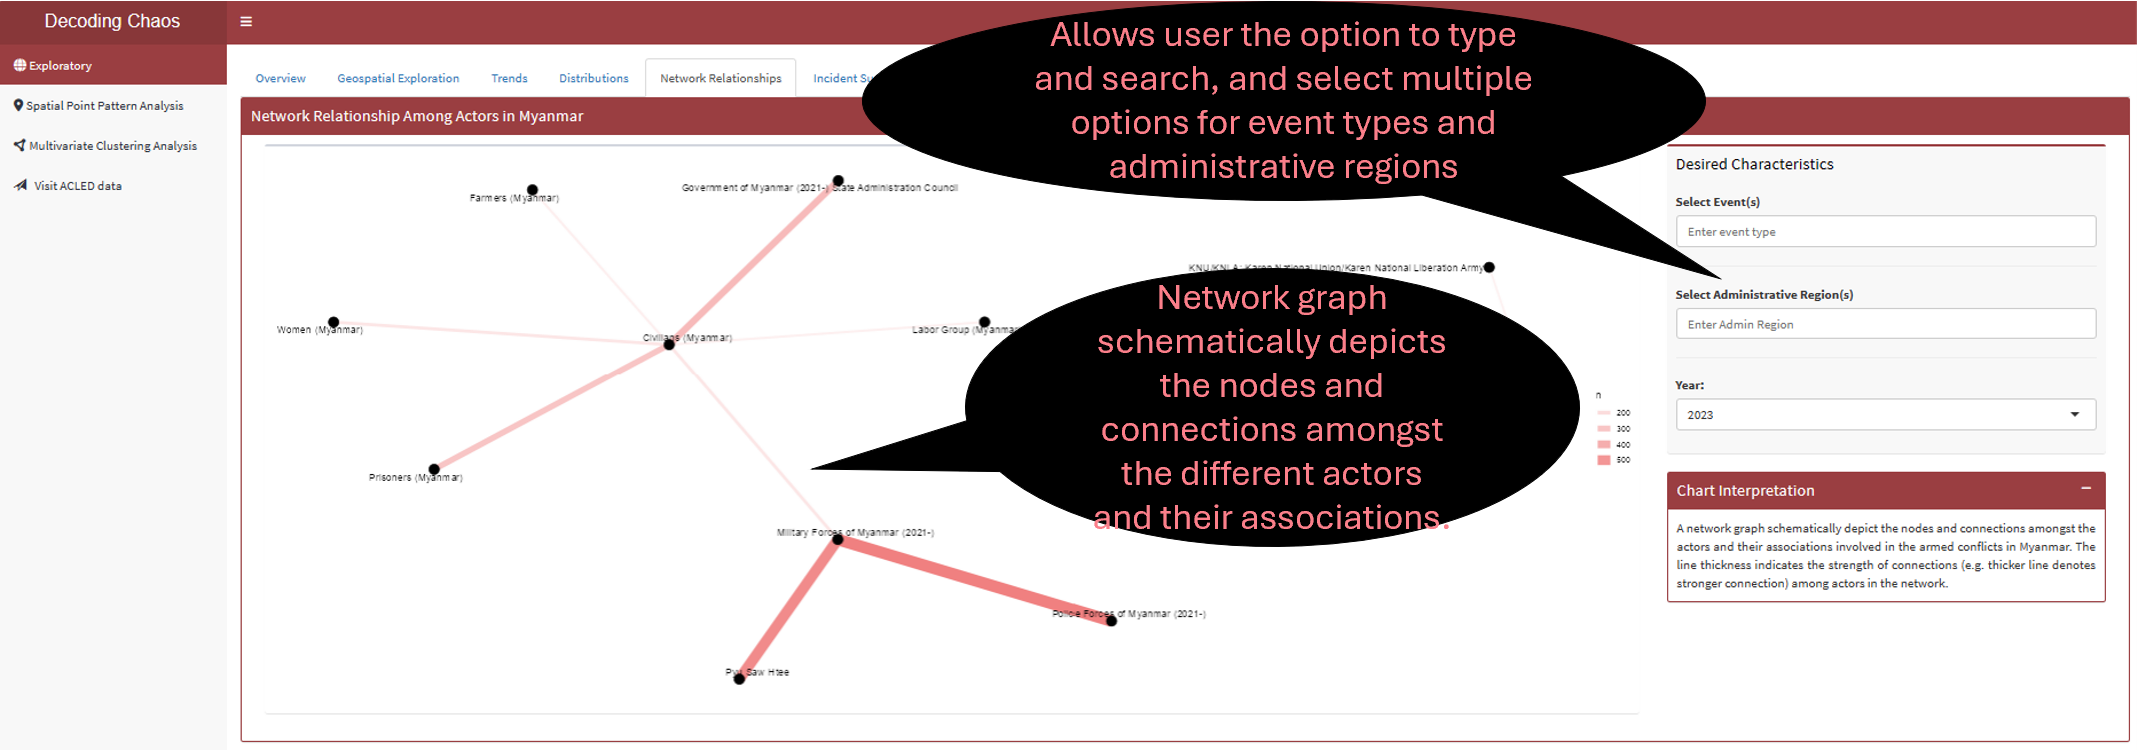
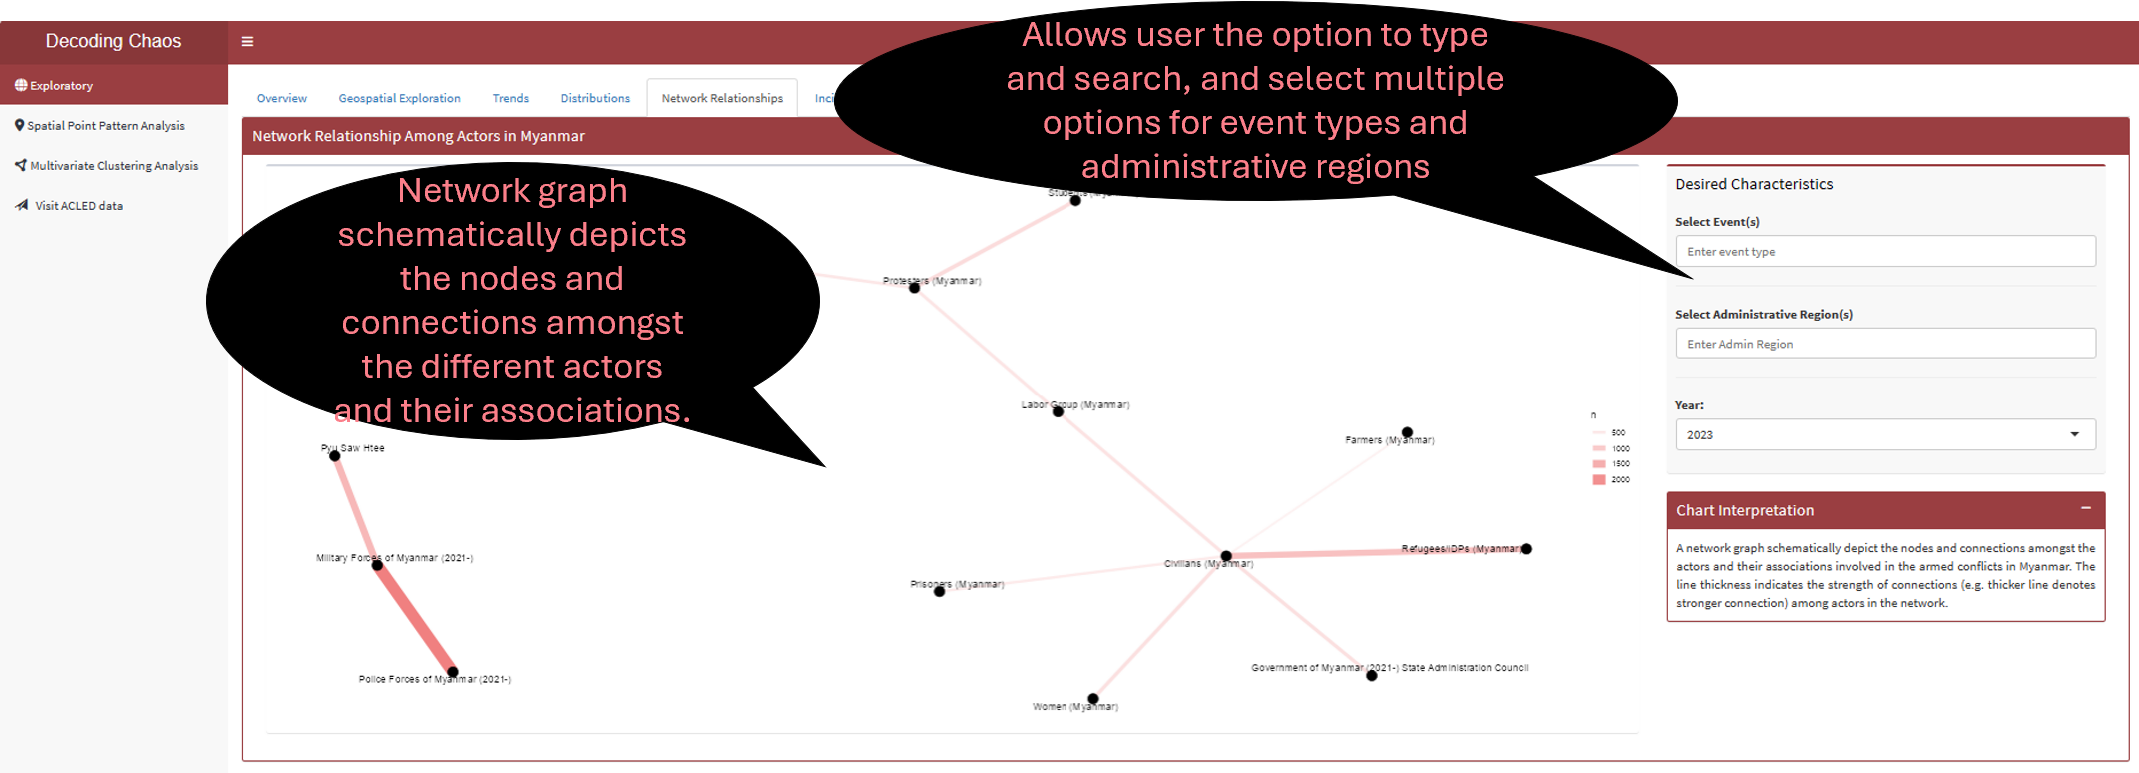
Commit changes to Take-home Ex 4 - Prototype

diff --git a/_site/Take-home_Ex/Take-home_Ex04/Take-home_Ex04-Prototype.html b/_site/Take-home_Ex/Take-home_Ex04/Take-home_Ex04-Prototype.html
@@ -322,7 +322,7 @@ pre > code.sourceCode > span > a:first-child::before { text-decoration: underlin
     <div>
     <div class="quarto-title-meta-heading">Modified</div>
     <div class="quarto-title-meta-contents">
-      <p class="date-modified">March 7, 2024</p>
+      <p class="date-modified">March 8, 2024</p>
     </div>
   </div>
     
@@ -491,7 +491,7 @@ pre > code.sourceCode > span > a:first-child::before { text-decoration: underlin
 <figcaption class="figure-caption">Prototype: Exploratory - Distributions</figcaption>
 </figure>
 </div>
-<p>This tab provides user with data exploration tools to explore the distribution of armed conflict incidents in Myanmar and the dispersion of incidents across the years. Figure below shows the UI interactive features in the <strong>Distribution</strong> sub-tab.</p>
+<p>This tab provides user with data exploration tools to explore the distribution of armed conflict incidents that resulted in fatalities and the dispersion of such incidents across the years in Myanmar. Figure below shows the UI interactive features in the <strong>Distribution</strong> sub-tab.</p>
 <p><img src="images/prototype4-1.png" class="img-fluid"></p>
 <p>Code chunk below shows the simplified version of UI and Server components in R Shiny application for <strong>Distributions</strong> sub-tab.</p>
 <div class="cell">
@@ -522,7 +522,7 @@ pre > code.sourceCode > span > a:first-child::before { text-decoration: underlin
 <figcaption class="figure-caption">Prototype: Exploratory - Network Relationships</figcaption>
 </figure>
 </div>
-<p>This tab provides user with data exploration tools to explore on network association amongst the actors involved in the armed conflict incidents in Myanmar. Figure below shows the UI interactive features in the <strong>Network Relationships</strong> sub-tab.</p>
+<p>This tab provides user with data exploration tools to explore on network association amongst the top actors (with more than 300 interactions in each year) involved in the armed conflict incidents in Myanmar. Figure below shows the UI interactive features in the <strong>Network Relationships</strong> sub-tab.</p>
 <p><img src="images/prototype5-1.png" class="img-fluid"></p>
 <p>Code chunk below shows the simplified version of UI and Server components in R Shiny application for <strong>Network Relationships</strong> sub-tab.</p>
 <div class="cell">
